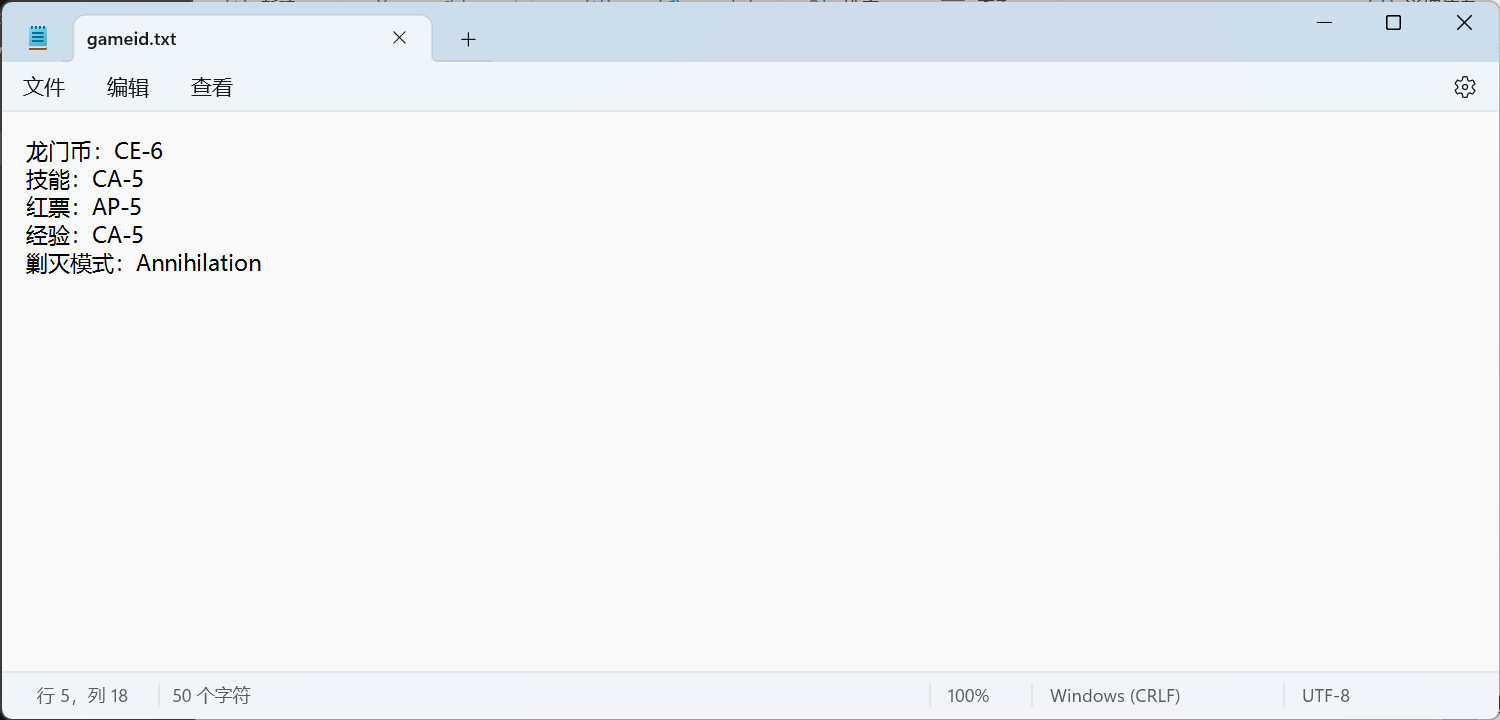
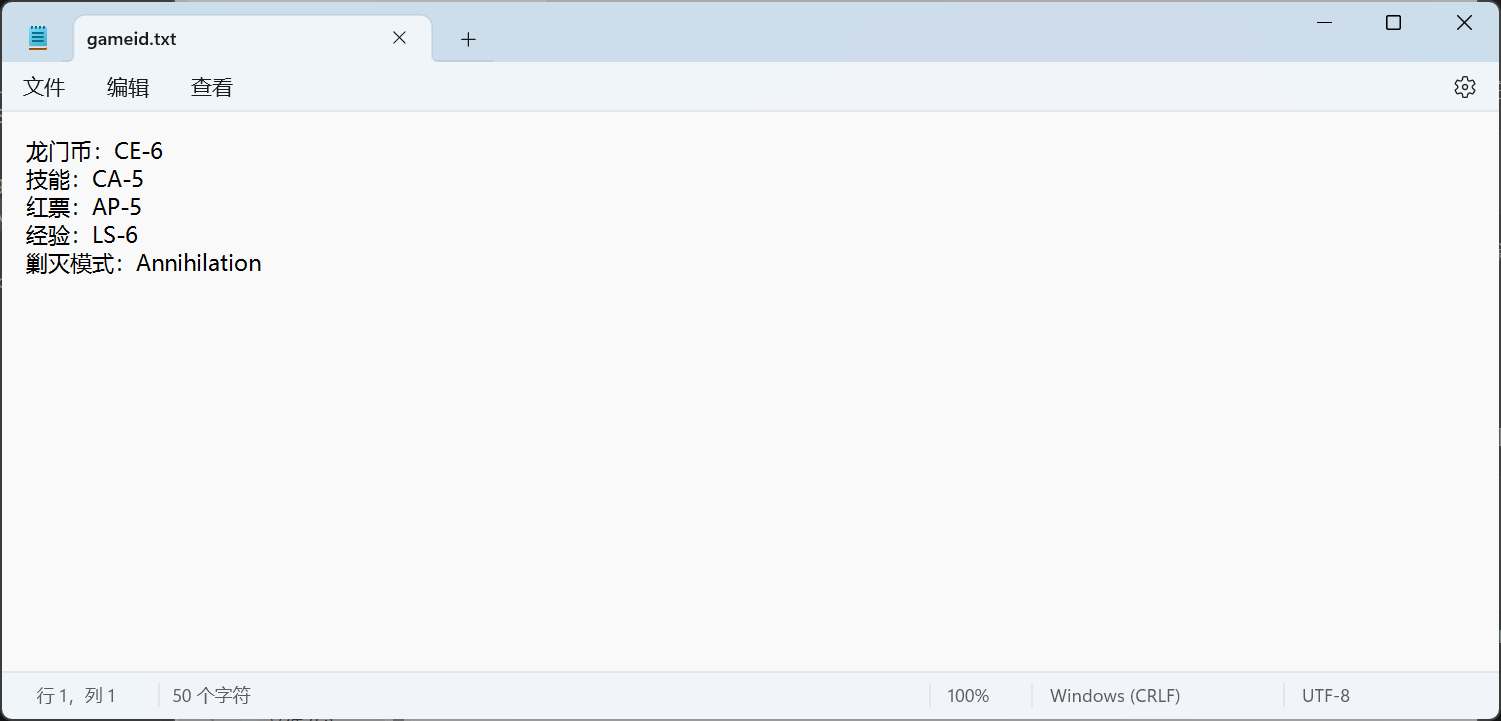
UI优化，判定优化，修复gameid错误，代理策略优化，组件独立性优化

diff --git a/run.py b/run.py
@@ -20,48 +20,80 @@
 
 import os
 import subprocess
+import atexit
 import sqlite3
 import datetime
 import time
 import json
 from termcolor import colored
 
-#判断MAA程序运行状态
-def ifoff():
-    while True:
-        time.sleep(10)
-        with open(logpath,'r',encoding='utf-8') as f:
-            logs=f.readlines()[-1:-10:-1]
-            log=''.join(logs)
-            print(colored('\n'.join(logs[::-1]),"green"))
-            if "任务已全部完成！" in log:
-                return True
-            elif ("请检查连接设置或尝试重启模拟器与 ADB 或重启电脑" in log) or ("已停止" in log):
-                return False
-
 #执行MAA任务
-def runmaa(tel,game,num=2):
+def runmaa(id,tel,game,num=3):
     #配置MAA运行参数
     with open(setpath,"r",encoding="utf-8") as f:
-        data = json.load(f)
+        data=json.load(f)
     data["Configurations"]["Default"]["Start.AccountName"]=tel[:3]+"****"+tel[7:]
-    week=str(datetime.datetime.now().strftime('%A'))
-    if week=="Monday":
-        data["Configurations"]["Default"]["MainFunction.Stage1"]="Annihilation"
-    else:
-        data["Configurations"]["Default"]["MainFunction.Stage1"]=game
+    data["Configurations"]["Default"]["MainFunction.Stage1"]="Annihilation"
+    data["Configurations"]["Default"]["Fight.RemainingSanityStage"]=game
+    data["Configurations"]["Default"]["Fight.UseRemainingSanityStage"]="True"
+    data["Configurations"]["Default"]["GUI.CustomStageCode"]="True"
     with open(setpath,"w",encoding="utf-8") as f:
         json.dump(data,f)
     #开始运行
     for i in range(num):
+        global idnew,idold,idfail,idall,logx,logi
+        #创建MAA任务
         maa=subprocess.Popen([maapath])
         maapid=maa.pid
-        time.sleep(60)
-        if ifoff():
-            return True
+        #等待MAA启动
+        idsuccess=idnew+idold
+        idwait=[idx for idx in idall if not idx in idsuccess+idfail+[id]]
+        os.system('cls')
+        if i==0:
+            print(colored("正在代理：",'white')+colored(id,'blue'))
         else:
-            os.system('taskkill /F /T /PID '+str(maapid))
+            print(colored("正在代理：",'white')+colored(id,'light_blue'))
+        print(colored("等待代理：",'white')+colored('，'.join(idwait),'yellow'))
+        print(colored("代理成功：",'white')+colored('，'.join(idsuccess),'green'))
+        print(colored("代理失败：",'white')+colored('，'.join(idfail),'red'))
+        print(colored("运行日志：",'white')+colored("等待MAA初始化",'light_green'))
+        time.sleep(60)
+        #监测MAA运行状态
+        while True:
+            #打印基本信息
+            os.system('cls')
+            if i==0:
+                print(colored("正在代理：",'white')+colored(id,'blue'))
+            else:
+                print(colored("正在代理：",'white')+colored(id,'light_blue'))
+            print(colored("等待代理：",'white')+colored('，'.join(idwait),'yellow'))
+            print(colored("代理成功：",'white')+colored('，'.join(idsuccess),'green'))
+            print(colored("代理失败：",'white')+colored('，'.join(idfail),'red'))
+            print(colored("运行日志：",'white'))
+            #读取并保存MAA日志
+            with open(logpath,'r',encoding='utf-8') as f:
+                logs=f.readlines()[-1:-10:-1]
+                print(colored(''.join(logs[::-1]),'light_green'))
+                log=''.join(logs)
+                logx[logi]=log
+                logi=(logi+1) % len(logx)
+            #判断MAA程序运行状态
+            if ("任务已全部完成！" in log):
+                return True
+            elif ("请检查连接设置或尝试重启模拟器与 ADB 或重启电脑" in log) or ("已停止" in log) or ("MaaAssistantArknights GUI exited" in log) or timeout():
+                os.system('taskkill /F /T /PID '+str(maapid))
+                break
+            time.sleep(10)
     return False
+
+#检查是否超时
+def timeout():
+    global logx
+    log0=logx[0]
+    for i in range(len(logx)):
+        if logx[i]!=log0:
+            return False
+    return True
 
 #更新已完成用户的数据
 def updata(id):
@@ -77,6 +109,19 @@ def updata(id):
     db.close()
     return 0
 
+#资源回收
+def cleanup():
+    if os.path.exists("state/RUNNING"):
+        os.remove("state/RUNNING")
+
+#读取运行情况
+if os.path.exists("state/RUNNING"):
+    exit()
+#标记当前正在运行
+with open("state/RUNNING","w",encoding="utf-8") as f:
+    print("RUNNING",file=f)
+#设置回调函数
+atexit.register(cleanup)
 #获取PATH与用户数据
 DATABASE="data/data.db"
 db=sqlite3.connect(DATABASE)
@@ -93,32 +138,39 @@ data=[list(row) for row in data]
 cur.close()
 db.close()
 #开始执行
-curdate=datetime.date.today()
-curdate=curdate.strftime('%Y-%m-%d')
+curdate=datetime.date.today().strftime('%Y-%m-%d')
+begintime=datetime.datetime.now().strftime("%H:%M")
 idnew=[]
 idold=[]
 idfail=[]
+idall=[data[i][0] for i in range(len(data))]
+LOGXLEN=60
+logx=['' for i in range(LOGXLEN)]
+logi=0
 for i in range(len(data)):
     if data[i][3]=='y' and data[i][4]!=curdate and data[i][2]>0:
-        book=runmaa(data[i][1],data[i][5])
+        book=runmaa(data[i][0],data[i][1],data[i][5])
         if book:
             updata(data[i][0])
             idnew.append(data[i][0])
-            print(colored("已完成"+data[i][0]+"今日的代理","yellow"))
         else:
             idfail.append(data[i][0])
-            print(colored("异常中止"+data[i][0]+"的代理","red"))
 for i in range(len(data)):
     if data[i][3]=='y' and data[i][4]==curdate and data[i][2]>0:
-        book=runmaa(data[i][1],data[i][5])
+        book=runmaa(data[i][0],data[i][1],data[i][5])
         if book:
             idold.append(data[i][0])
-            print(colored("已重复完成"+data[i][0]+"今日的代理","yellow"))
-with open("log.txt","w", encoding="utf-8") as f:
-    print("任务结束，已完成数："+str(len(idnew))+"，未完成数："+str(len(idfail))+"，重复执行数："+str(len(idold)),file=f)
+        else:
+            idall.remove(data[i][0])
+endtime=datetime.datetime.now().strftime("%H:%M")
+with open("log.txt","w",encoding="utf-8") as f:
+    print("任务开始时间："+begintime+"，结束时间："+endtime,file=f)
+    print("已完成数："+str(len(idnew))+"，未完成数："+str(len(idfail))+"，重复执行数："+str(len(idold)),file=f)
     if len(idfail)!=0:
         print("代理未完成的用户：",file=f)
     for i in range(len(idfail)):
         print(idfail[i],file=f)
-with open("OVER","w", encoding="utf-8") as f:
-    print("OVER",file=f)
+if os.path.exists("state/BEGIN"):
+    with open("state/END","w",encoding="utf-8") as f:
+        print("END",file=f)
+exit()

diff --git a/manage.py b/manage.py
@@ -165,8 +165,6 @@ def changePASSWORD():
 
 #添加用户
 def add():
-    db=sqlite3.connect(DATABASE)
-    cur=db.cursor()
     adminx=input("用户名：")
     #用户名重复验证
     while search(adminx,0)=="":
@@ -178,6 +176,8 @@ def add():
     passwordx=readpass("密码：")
     passwordx=encryptx(passwordx)
     #应用更新
+    db=sqlite3.connect(DATABASE)
+    cur=db.cursor()
     cur.execute("INSERT INTO adminx VALUES(?,?,?,'y','2000-01-01',?,?)",(adminx,numberx,dayx,gamex,passwordx))
     db.commit()
     cur.close()
@@ -186,14 +186,12 @@ def add():
 
 #删除用户信息
 def delete(id):
-    db=sqlite3.connect(DATABASE)
-    cur=db.cursor()
     #检查用户是否存在
-    cur.execute("SELECT * FROM adminx WHERE admin=?",(id,))
-    data=cur.fetchall()
-    if len(data)==0:
+    if search(id,0)!="":
         return "未找到"+id
     #应用更新
+    db=sqlite3.connect(DATABASE)
+    cur=db.cursor()
     cur.execute("DELETE FROM adminx WHERE admin=?",(id,))
     db.commit()
     cur.close()
@@ -298,15 +296,13 @@ def renewal(readxx):
             dayp=int(readxx[i+1:])
             break
     #检查用户是否存在
+    if search(id,0)!="":
+        return "未找到"+id
+    #应用更新
     db=sqlite3.connect(DATABASE)
     cur=db.cursor()
     cur.execute("SELECT * FROM adminx WHERE admin=?",(id,))
     data=cur.fetchall()
-    if len(data)==0:
-        cur.close()
-        db.close()
-        return "未找到"+id
-    #应用更新
     cur.execute("UPDATE adminx SET day=? WHERE admin=?",(data[0][2]+dayp,id))
     db.commit()
     cur.close()
@@ -316,15 +312,11 @@ def renewal(readxx):
 #用户状态配置
 def turn(id,t):
     #检查用户是否存在
-    db=sqlite3.connect(DATABASE)
-    cur=db.cursor()
-    cur.execute("SELECT * FROM adminx WHERE admin=?",(id,))
-    data=cur.fetchall()
-    if len(data)==0:
-        cur.close()
-        db.close()
+    if search(id,0)!="":
         return "未找到"+id
     #应用更新
+    db=sqlite3.connect(DATABASE)
+    cur=db.cursor()
     cur.execute("UPDATE adminx SET status=? WHERE admin=?",(t,id))
     db.commit()
     cur.close()
@@ -343,13 +335,7 @@ def gameid(readxx):
             gamep=readxx[i+1:]
             break
     #检查用户是否存在
-    db=sqlite3.connect(DATABASE)
-    cur=db.cursor()
-    cur.execute("SELECT * FROM adminx WHERE admin=?",(id,))
-    data=cur.fetchall()
-    if len(data)==0:
-        cur.close()
-        db.close()
+    if search(id,0)!="":
         return "未找到"+id
     #导入与应用特殊关卡规则
     games={}
@@ -365,6 +351,8 @@ def gameid(readxx):
     if gamep in games:
         gamep=games[gamep]
     #应用更新
+    db=sqlite3.connect(DATABASE)
+    cur=db.cursor()
     cur.execute("UPDATE adminx SET game=? WHERE admin=?",(gamep,id))
     db.commit()
     cur.close()

diff --git a/AUTO_MAA.py b/AUTO_MAA.py
@@ -20,30 +20,55 @@
 
 import sqlite3
 import subprocess
+import atexit
 import datetime
 import time
 import os
 from termcolor import colored
 
+#资源回收
+def cleanup():
+    if os.path.exists("state/BEGIN"):
+        os.remove("state/BEGIN")
+
 DATABASE="data/data.db"
-db=sqlite3.connect(DATABASE)
-cur=db.cursor()
-cur.execute("SELECT * FROM timeset WHERE True")
-timeset=cur.fetchall()
-timeset=[list(row) for row in timeset]
+
+#设置回调函数
+atexit.register(cleanup)
 while True:
-    curtime=datetime.datetime.now().strftime("%H:%M")
-    print(colored("当前时间："+curtime,'green'))
-    timenew=[]
-    timenew.append(curtime)
-    if timenew in timeset:
-        print(colored("开始执行",'yellow'))
-        maa=subprocess.Popen(["run.exe"])
-        maapid=maa.pid
-        while True:
-            if os.path.exists("OVER"):
-                os.system('taskkill /F /T /PID '+str(maapid))
-                os.remove("OVER")
-                print(colored("执行完毕",'yellow'))
-                break
-    time.sleep(1)
+    db=sqlite3.connect(DATABASE)
+    cur=db.cursor()
+    cur.execute("SELECT * FROM timeset WHERE True")
+    timeset=cur.fetchall()
+    cur.close()
+    db.close()
+    timeset=[list(row) for row in timeset]
+    timeset=[timeset[i][0] for i in range(len(timeset))]
+    for i in range(60):
+        #展示当前信息
+        curtime=datetime.datetime.now().strftime("%H:%M")
+        os.system('cls')
+        if len(timeset)!=0:
+            print(colored("设定时间："+'，'.join(timeset),'green'))
+        print(colored("当前时间："+curtime,'green'))
+        print(colored("运行日志：",'green'))
+        if os.path.exists("state/running"):
+            print(colored("正在运行代理",'yellow'))
+        elif os.path.exists("log.txt"):
+            with open("log.txt",'r',encoding="utf-8") as f:
+                linex=f.read()
+                print(colored(linex,'light_green'))
+        else:
+            print(colored("暂无",'light_green'))
+        if (curtime in timeset) and not os.path.exists("running"):
+            with open("state/BEGIN","w",encoding="utf-8") as f:
+                print("BEGIN",file=f)
+            maa=subprocess.Popen(["run.exe"])
+            maapid=maa.pid
+            while True:
+                if os.path.exists("state/END"):
+                    os.system('taskkill /F /T /PID '+str(maapid))
+                    os.remove("state/END")
+                    break
+            os.remove("state/BEGIN")
+        time.sleep(1)

diff --git a/toexe.py b/toexe.py
@@ -20,6 +20,6 @@
 
 import os
 
-os.system("pyinstaller -F -i res/AUTO_MAA.ico manage.py")
-os.system("pyinstaller -F -i res/AUTO_MAA.ico run.py")
-os.system("pyinstaller -F -i res/AUTO_MAA.ico AUTO_MAA.py")
+os.system("pyinstaller -F -w --version-file res/info.txt -i res/AUTO_MAA.ico manage.py")
+os.system("pyinstaller -F -w --version-file res/info.txt -i res/AUTO_MAA.ico run.py")
+os.system("pyinstaller -F -w --version-file res/info.txt -i res/AUTO_MAA.ico AUTO_MAA.py")

diff --git a/README.md b/README.md
@@ -20,6 +20,10 @@ MAA多账号管理与自动化软件
 
 以上细则是本项目对GPL的相关补充与强调。未提及的以GPL为准，发生冲突的以GPL为准。如有不清楚的部分，请发Issues询问。若发生纠纷，相关内容也没有在Issues上提及的，项目组拥有最终解释权
 
+**注意**
+- 由于本软件有修改其它目录JSON文件等行为，使用前请将AUTO_MAA添加入Windows Defender信任区以及防病毒软件的信任区或开发者目录，避免被误杀
+- 如程序无法正常启动，请删除`state`目录下所有文件后重试
+
 ## 安装与配置MAA
 
 本软件是MAA的外部工具，需要安装配置MAA后才能使用。
